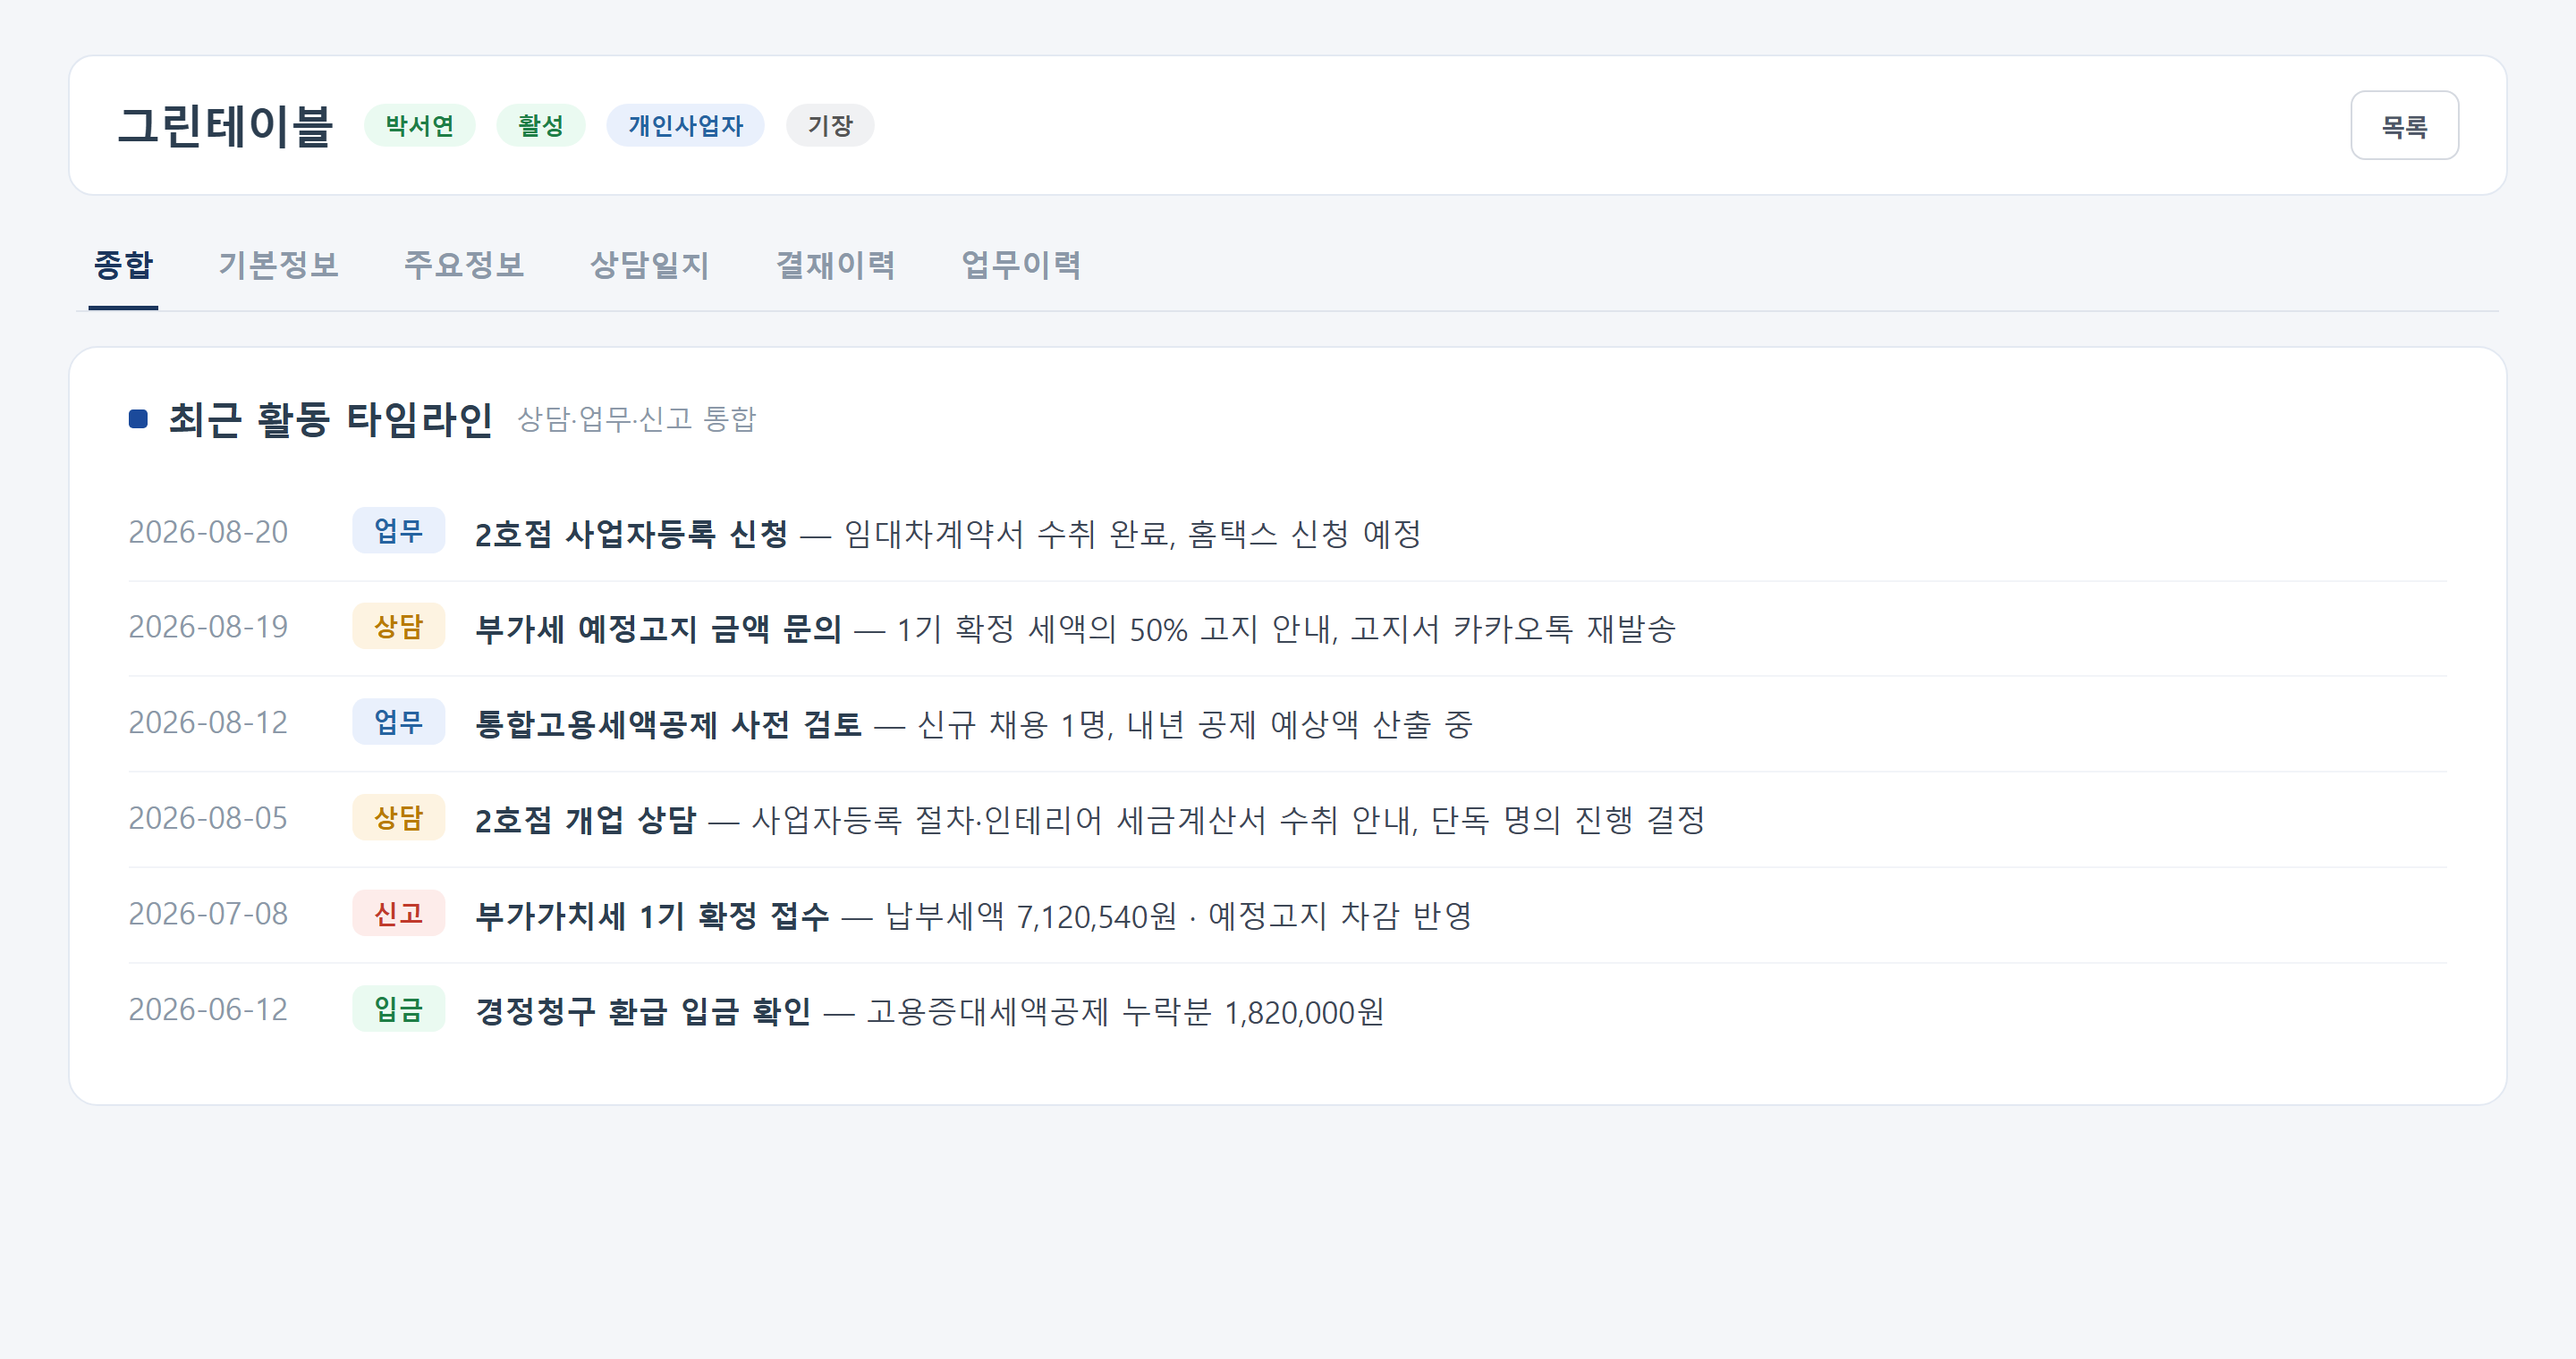
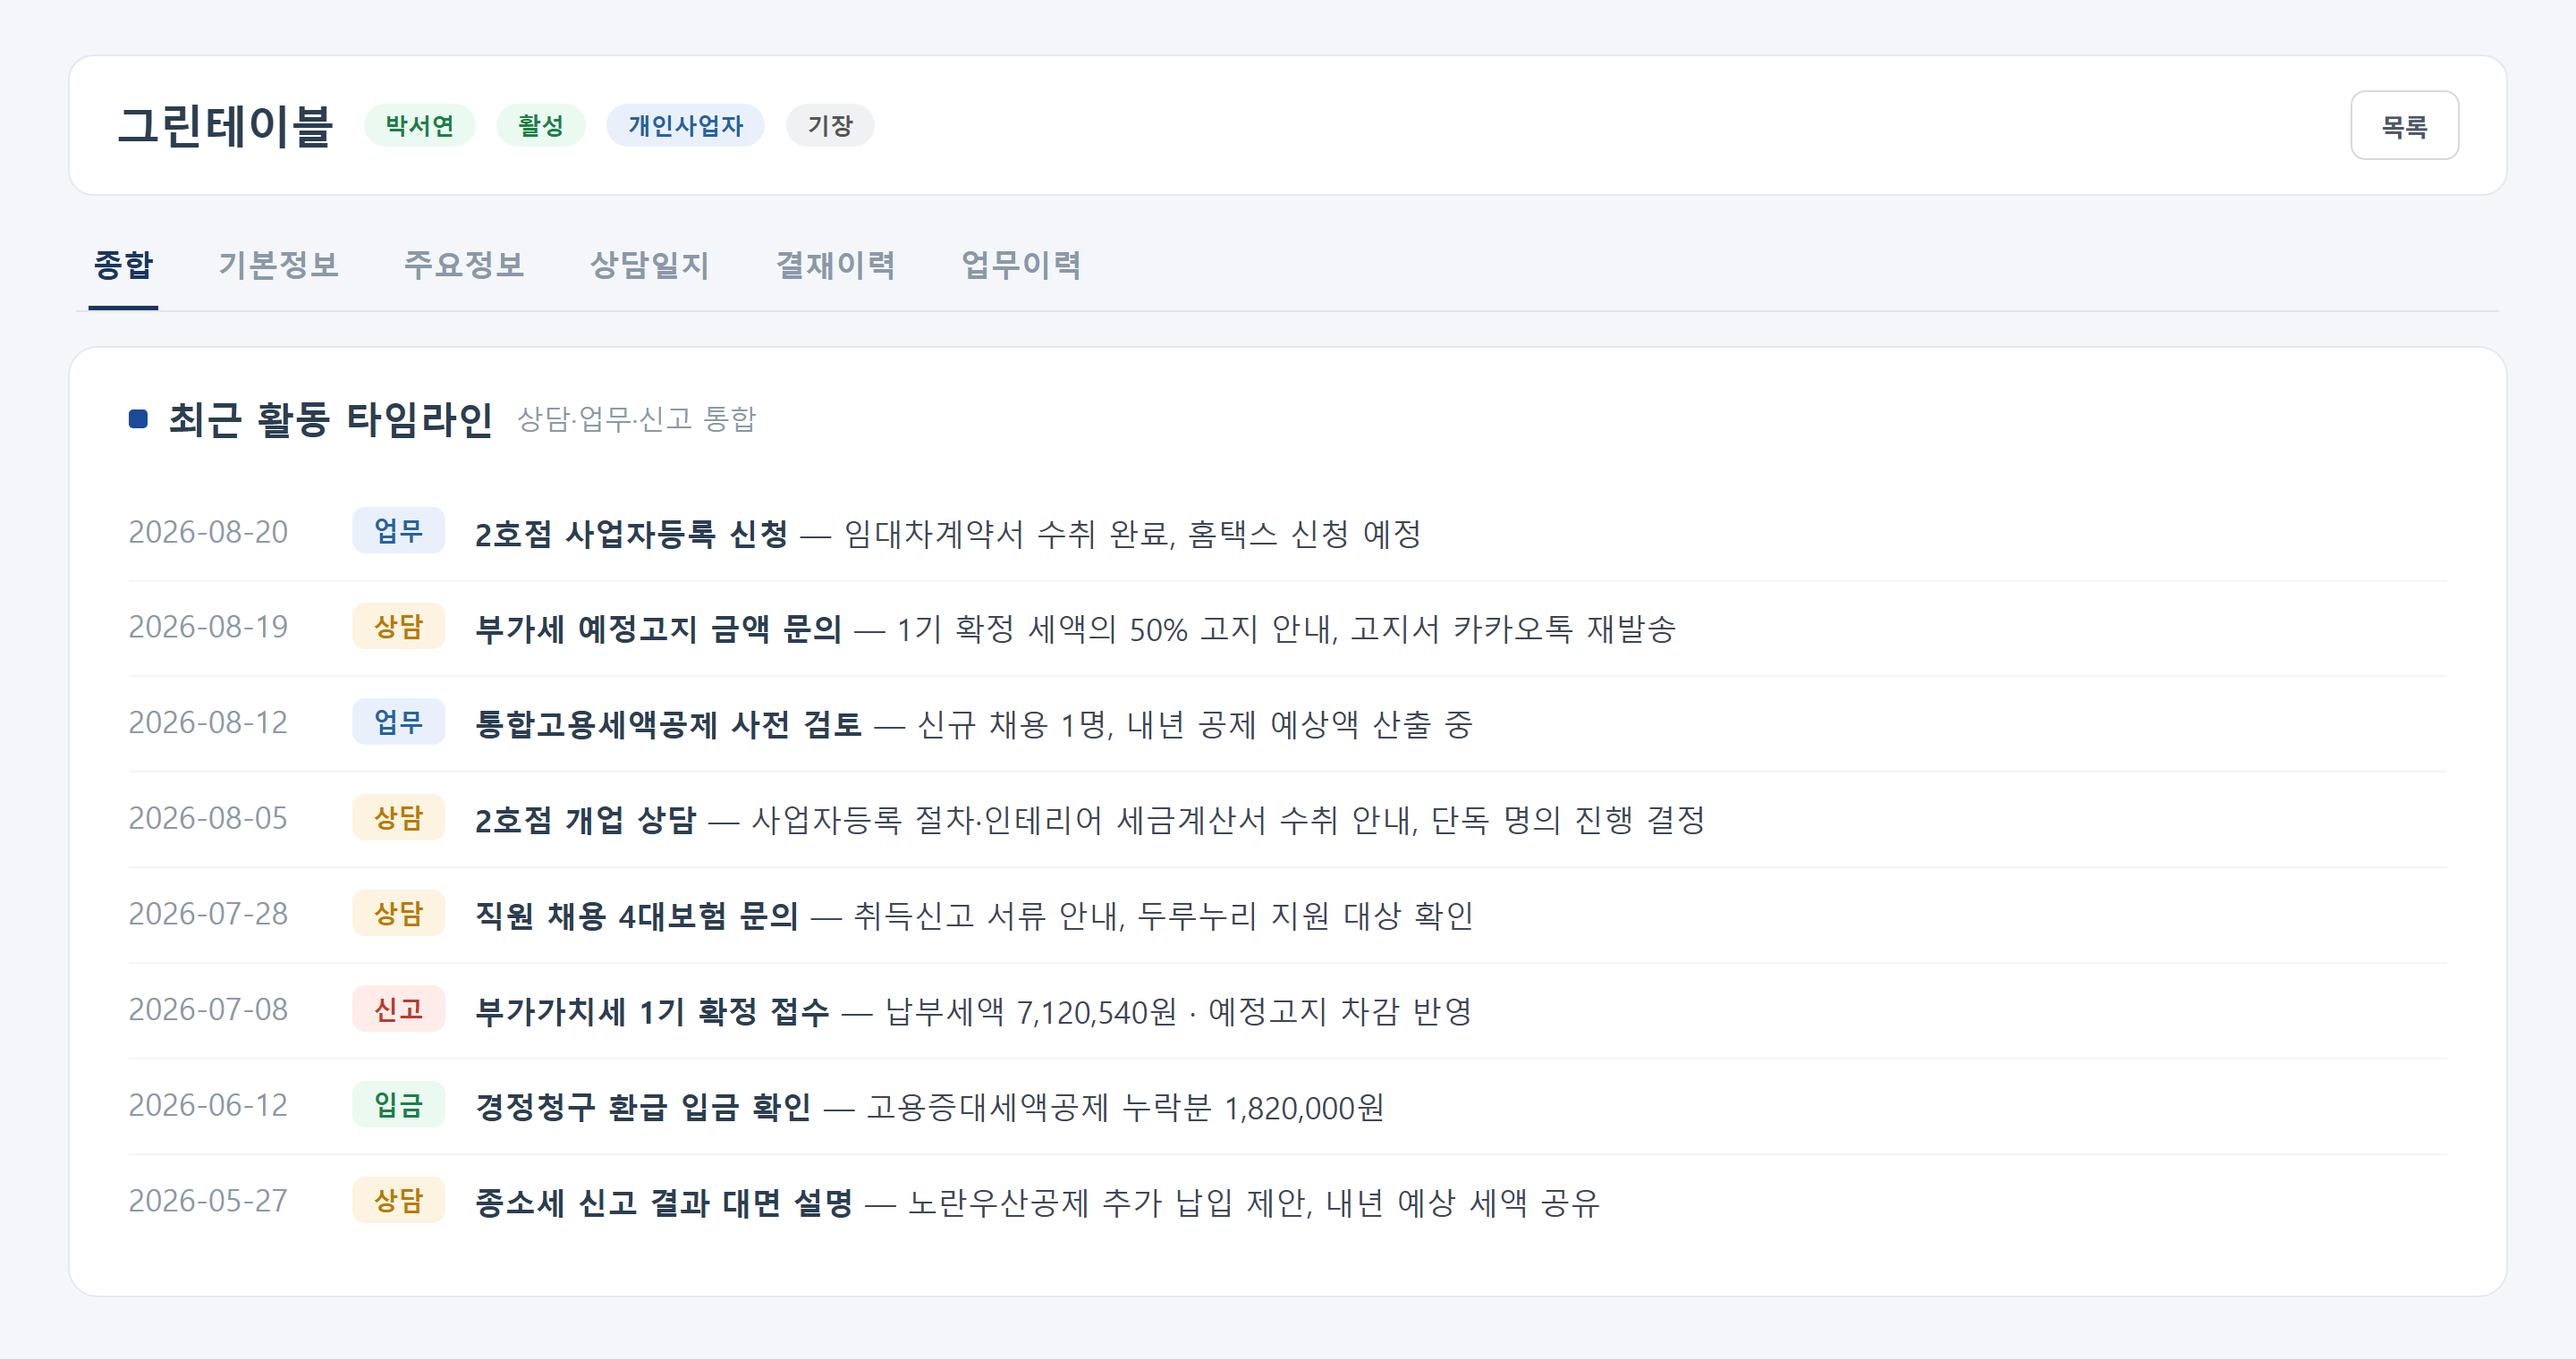
히어로 화면 하단 여백 채움 — 사전알림 퇴직금 점검 카드 추가(5건), 타임라인 8행 복원, 결재이력 1기예정 행 복원(5건)

diff --git a/index.html b/index.html
@@ -82,11 +82,11 @@
       <div class="stack-hero" title="누르면 다음 화면이 보입니다">
         <div class="shot" data-i="3">
           <div class="shot-bar"><i></i><i></i><i></i><span>신고서 결재 이력</span></div>
-          <img src="assets/hero/hero_appr.png" alt="신고서 결재 이력 화면 — 부가세·종합소득세 신고마다 담당자와 세무사 2단계 결재 기록이 남는 화면" width="2880" height="1520">
+          <img src="assets/hero/hero_appr.png?v=2" alt="신고서 결재 이력 화면 — 부가세·종합소득세 신고마다 담당자와 세무사 2단계 결재 기록이 남는 화면" width="2880" height="1520">
         </div>
         <div class="shot" data-i="2">
           <div class="shot-bar"><i></i><i></i><i></i><span>활동 타임라인</span></div>
-          <img src="assets/hero/hero_timeline.png?v=3" alt="최근 활동 타임라인 화면 — 상담·업무·신고·입금 기록이 날짜순으로 통합되어 보이는 화면" width="2880" height="1520">
+          <img src="assets/hero/hero_timeline.png?v=4" alt="최근 활동 타임라인 화면 — 상담·업무·신고·입금 기록이 날짜순으로 통합되어 보이는 화면" width="2880" height="1520">
         </div>
         <div class="shot" data-i="1">
           <div class="shot-bar"><i></i><i></i><i></i><span>카카오톡 안내</span></div>
@@ -94,7 +94,7 @@
         </div>
         <div class="shot" data-i="0">
           <div class="shot-bar"><i></i><i></i><i></i><span>사전알림</span></div>
-          <img src="assets/hero/hero_alert.png?v=4" alt="사전알림 화면 — 창업감면 종료, 노란우산공제 추가 공제 여력, 통합고용세액공제, 부가세 예정고지 등 이 회사에 해당하는 점검 항목만 골라 보여주는 화면" width="2880" height="1520">
+          <img src="assets/hero/hero_alert.png?v=5" alt="사전알림 화면 — 창업감면 종료, 노란우산공제 추가 공제 여력, 통합고용세액공제, 부가세 예정고지 등 이 회사에 해당하는 점검 항목만 골라 보여주는 화면" width="2880" height="1520">
         </div>
       </div>
       <div class="hdots" aria-hidden="true"><button class="hdot" data-d="0"></button><button class="hdot" data-d="1"></button><button class="hdot" data-d="2"></button><button class="hdot" data-d="3"></button></div>
